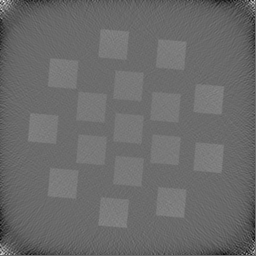
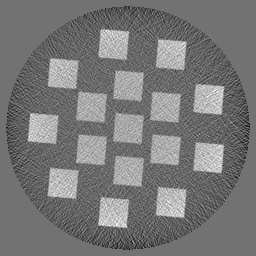
phantoms clean-up

diff --git a/docs/demo/rec_phantom_00001.py b/docs/demo/rec_phantom_00001.py
@@ -24,7 +24,8 @@ if __name__ == '__main__':
 
     # Read the APS 2-BM raw data.
     proj, flat, dark, theta = dxchange.read_aps_32id(fname, sino=(start, end))
-    
+
+    print(fname)   
     # Flat-field correction of raw data.
     proj = tomopy.normalize(proj, flat, dark)
 
@@ -32,11 +33,13 @@ if __name__ == '__main__':
     rot_center = (proj.shape[2]-1)/2.
     print (rot_center)
     
-    
-    tomopy.minus_log(proj)
+    # proj = tomopy.minus_log(proj)
 
     # Reconstruct object using Gridrec algorithm.
     rec = tomopy.recon(proj, theta, center=rot_center, algorithm='gridrec', nchunk=1)
+
+    # Mask each reconstructed slice with a circle.
+    rec = tomopy.circ_mask(rec, axis=0, ratio=0.95)
     
     # Write data as stack of TIFs.
     fname='/tomobank/phantoms/' + tomobank_id + '/' + tomobank_id

diff --git a/docs/demo/rec_phantom_00007.py b/docs/demo/rec_phantom_00007.py
@@ -32,14 +32,13 @@ if __name__ == '__main__':
     rot_center = (proj.shape[2]-1)/2.
     print (rot_center)
     
-    
-    tomopy.minus_log(proj)
+    proj = tomopy.minus_log(proj)
 
     # Reconstruct object using Gridrec algorithm.
     rec = tomopy.recon(proj, theta, center=rot_center, algorithm='gridrec', nchunk=1)
 
     # Mask each reconstructed slice with a circle.
-    #rec = tomopy.circ_mask(rec, axis=0, ratio=0.95)
+    rec = tomopy.circ_mask(rec, axis=0, ratio=0.95)
     
     # Write data as stack of TIFs.
     fname='/tomobank/phantoms/' + tomobank_id + '/' + tomobank_id

diff --git a/docs/demo/rec_phantom_00008.py b/docs/demo/rec_phantom_00008.py
@@ -32,14 +32,13 @@ if __name__ == '__main__':
     rot_center = (proj.shape[2]-1)/2.
     print (rot_center)
     
-    
-    tomopy.minus_log(proj)
+    proj = tomopy.minus_log(proj)
 
     # Reconstruct object using Gridrec algorithm.
     rec = tomopy.recon(proj, theta, center=rot_center, algorithm='gridrec', nchunk=1)
 
     # Mask each reconstructed slice with a circle.
-    #rec = tomopy.circ_mask(rec, axis=0, ratio=0.95)
+    rec = tomopy.circ_mask(rec, axis=0, ratio=0.95)
     
     # Write data as stack of TIFs.
     fname='/tomobank/phantoms/' + tomobank_id + '/' + tomobank_id

diff --git a/docs/demo/rec_phantom_00009.py b/docs/demo/rec_phantom_00009.py
@@ -32,14 +32,13 @@ if __name__ == '__main__':
     rot_center = (proj.shape[2]-1)/2.
     print (rot_center)
     
-    
-    tomopy.minus_log(proj)
+    proj = tomopy.minus_log(proj)
 
     # Reconstruct object using Gridrec algorithm.
     rec = tomopy.recon(proj, theta, center=rot_center, algorithm='gridrec', nchunk=1)
 
     # Mask each reconstructed slice with a circle.
-    #rec = tomopy.circ_mask(rec, axis=0, ratio=0.95)
+    rec = tomopy.circ_mask(rec, axis=0, ratio=0.95)
     
     # Write data as stack of TIFs.
     fname='/tomobank/phantoms/' + tomobank_id + '/' + tomobank_id

diff --git a/docs/demo/rec_phantom_00010.py b/docs/demo/rec_phantom_00010.py
@@ -32,14 +32,13 @@ if __name__ == '__main__':
     rot_center = (proj.shape[2]-1)/2.
     print (rot_center)
     
-    
-    tomopy.minus_log(proj)
+    proj = tomopy.minus_log(proj)
 
     # Reconstruct object using Gridrec algorithm.
     rec = tomopy.recon(proj, theta, center=rot_center, algorithm='gridrec', nchunk=1)
 
     # Mask each reconstructed slice with a circle.
-    #rec = tomopy.circ_mask(rec, axis=0, ratio=0.95)
+    rec = tomopy.circ_mask(rec, axis=0, ratio=0.95)
     
     # Write data as stack of TIFs.
     fname='/tomobank/phantoms/' + tomobank_id + '/' + tomobank_id

diff --git a/docs/demo/rec_phantom_00011.py b/docs/demo/rec_phantom_00011.py
@@ -32,14 +32,13 @@ if __name__ == '__main__':
     rot_center = (proj.shape[2]-1)/2.
     print (rot_center)
     
-    
-    tomopy.minus_log(proj)
+    proj = tomopy.minus_log(proj)
 
     # Reconstruct object using Gridrec algorithm.
     rec = tomopy.recon(proj, theta, center=rot_center, algorithm='gridrec', nchunk=1)
 
     # Mask each reconstructed slice with a circle.
-    #rec = tomopy.circ_mask(rec, axis=0, ratio=0.95)
+    rec = tomopy.circ_mask(rec, axis=0, ratio=0.95)
     
     # Write data as stack of TIFs.
     fname='/tomobank/phantoms/' + tomobank_id + '/' + tomobank_id

diff --git a/docs/demo/rec_phantom_00005.py b/docs/demo/rec_phantom_00005.py
@@ -31,12 +31,14 @@ if __name__ == '__main__':
     # Set rotation center.
     rot_center = (proj.shape[2]-1)/2.
     print (rot_center)
-    
-    
-    tomopy.minus_log(proj)
+        
+    #proj = tomopy.minus_log(proj)
 
     # Reconstruct object using Gridrec algorithm.
     rec = tomopy.recon(proj, theta, center=rot_center, algorithm='gridrec', nchunk=1)
+
+    # Mask each reconstructed slice with a circle.
+    rec = tomopy.circ_mask(rec, axis=0, ratio=0.95)
     
     # Write data as stack of TIFs.
     fname='/tomobank/phantoms/' + tomobank_id + '/' + tomobank_id

diff --git a/docs/demo/rec_phantom_00002.py b/docs/demo/rec_phantom_00002.py
@@ -32,11 +32,13 @@ if __name__ == '__main__':
     rot_center = (proj.shape[2]-1)/2.
     print (rot_center)
     
-    
-    tomopy.minus_log(proj)
+    # proj = tomopy.minus_log(proj)
 
     # Reconstruct object using Gridrec algorithm.
     rec = tomopy.recon(proj, theta, center=rot_center, algorithm='gridrec', nchunk=1)
+
+    # Mask each reconstructed slice with a circle.
+    rec = tomopy.circ_mask(rec, axis=0, ratio=0.95)
     
     # Write data as stack of TIFs.
     fname='/tomobank/phantoms/' + tomobank_id + '/' + tomobank_id

diff --git a/docs/demo/rec_phantom_00004.py b/docs/demo/rec_phantom_00004.py
@@ -32,11 +32,13 @@ if __name__ == '__main__':
     rot_center = (proj.shape[2]-1)/2.
     print (rot_center)
     
-    
-    tomopy.minus_log(proj)
+    # proj = tomopy.minus_log(proj)
 
     # Reconstruct object using Gridrec algorithm.
     rec = tomopy.recon(proj, theta, center=rot_center, algorithm='gridrec', nchunk=1)
+
+    # Mask each reconstructed slice with a circle.
+    rec = tomopy.circ_mask(rec, axis=0, ratio=0.95)
     
     # Write data as stack of TIFs.
     fname='/tomobank/phantoms/' + tomobank_id + '/' + tomobank_id

diff --git a/docs/demo/rec_phantom_00003.py b/docs/demo/rec_phantom_00003.py
@@ -32,11 +32,13 @@ if __name__ == '__main__':
     rot_center = (proj.shape[2]-1)/2.
     print (rot_center)
     
-    
-    tomopy.minus_log(proj)
+    proj = tomopy.minus_log(proj)
 
     # Reconstruct object using Gridrec algorithm.
     rec = tomopy.recon(proj, theta, center=rot_center, algorithm='gridrec', nchunk=1)
+
+    # Mask each reconstructed slice with a circle.
+    rec = tomopy.circ_mask(rec, axis=0, ratio=0.95)
     
     # Write data as stack of TIFs.
     fname='/tomobank/phantoms/' + tomobank_id + '/' + tomobank_id

diff --git a/docs/demo/rec_phantom_00006.py b/docs/demo/rec_phantom_00006.py
@@ -32,11 +32,13 @@ if __name__ == '__main__':
     rot_center = (proj.shape[2]-1)/2.
     print (rot_center)
     
-    
-    tomopy.minus_log(proj)
+    proj = tomopy.minus_log(proj)
 
     # Reconstruct object using Gridrec algorithm.
     rec = tomopy.recon(proj, theta, center=rot_center, algorithm='gridrec', nchunk=1)
+
+    # Mask each reconstructed slice with a circle.
+    rec = tomopy.circ_mask(rec, axis=0, ratio=0.95)
     
     # Write data as stack of TIFs.
     fname='/tomobank/phantoms/' + tomobank_id + '/' + tomobank_id
